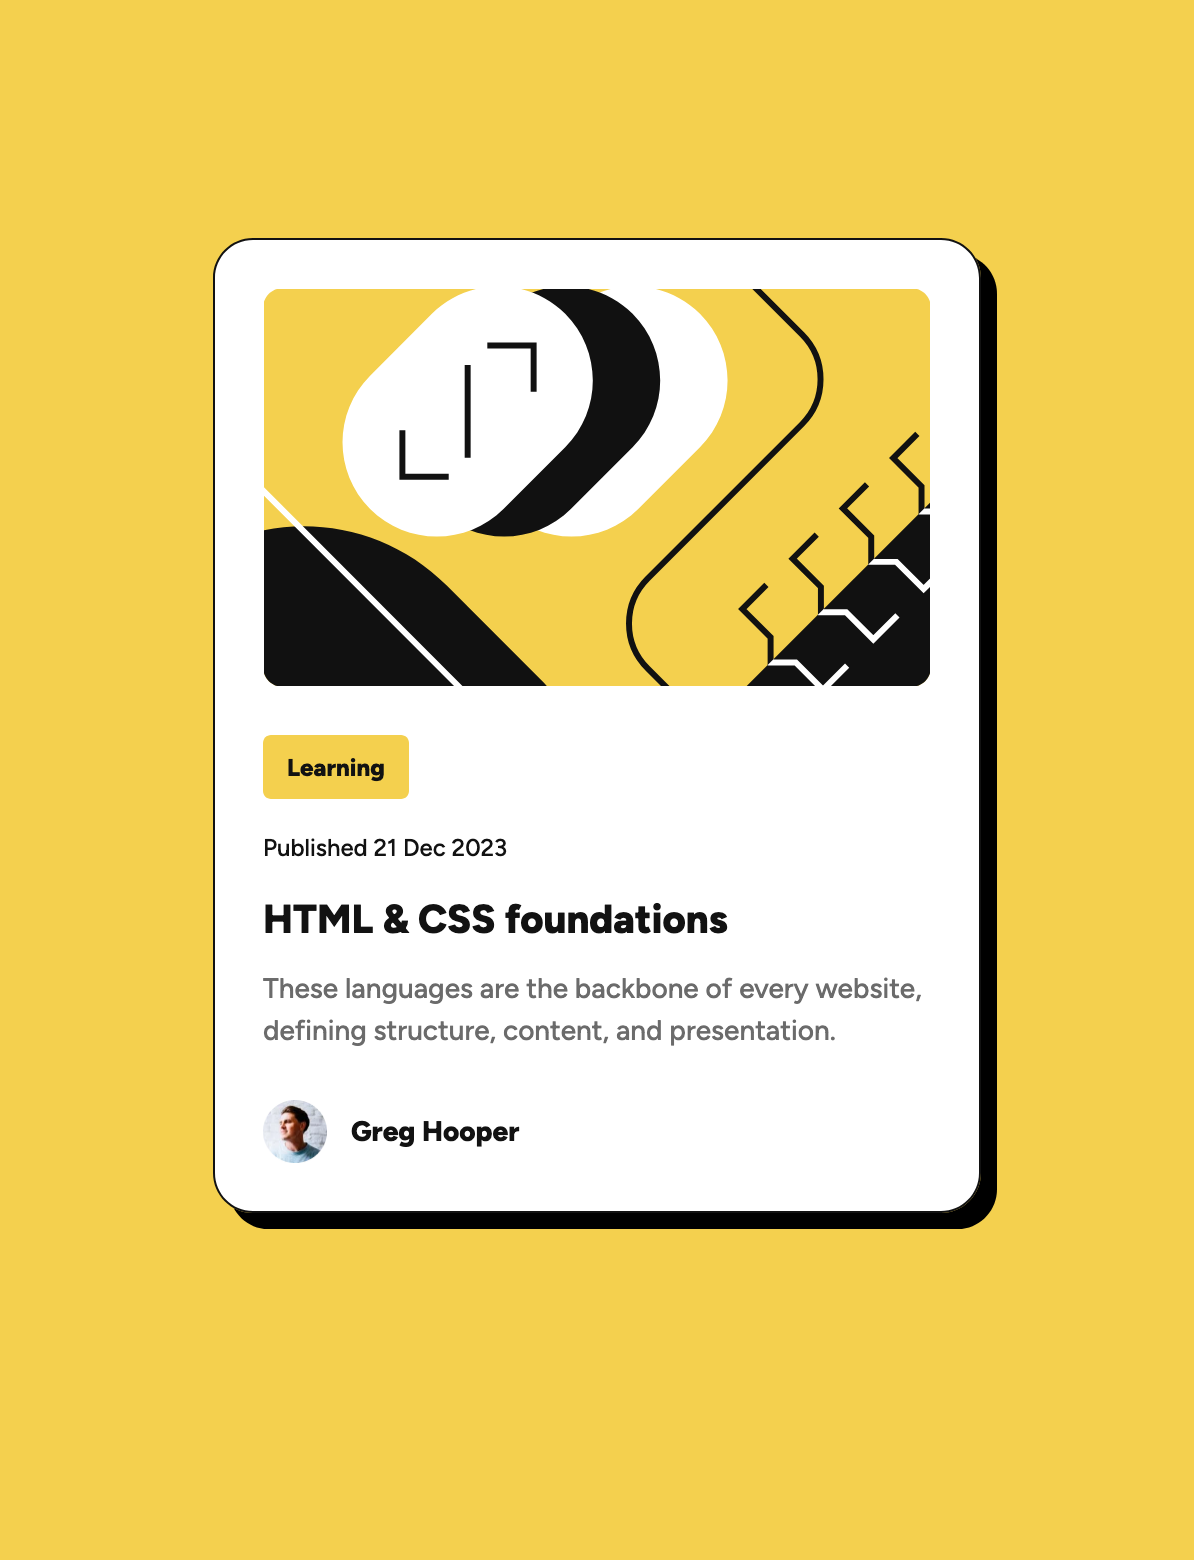
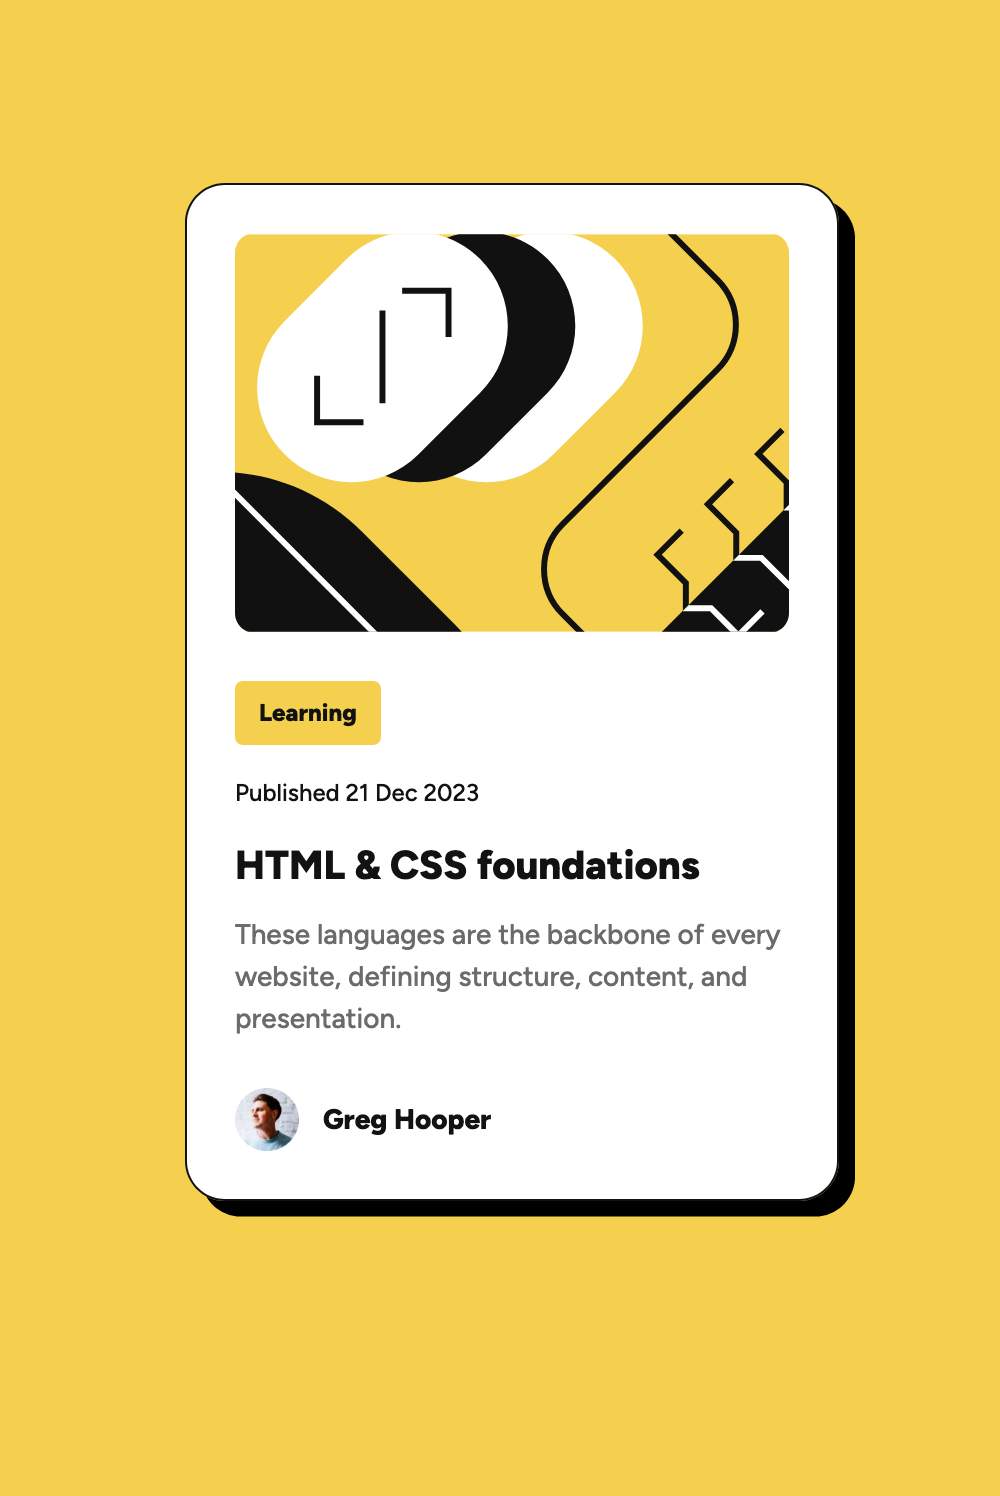
amelioration du responsive, passage image en object-fit cover

Changed region(s): [[0.155, 0.123, 0.868, 0.8302], [0.589, 0.3075, 0.62, 0.3382]]

diff --git a/style.css b/style.css
@@ -38,6 +38,8 @@ a {
     --spacing-150: 0.75rem;
     --spacing-100: 0.5rem;
     --spacing-50: 0.25rem;
+
+    --box-shadow: 8px 8px 0px 0px rgb(0,0,0);
 }
 
 html,
@@ -49,7 +51,7 @@ body {
 
 /* Rules */
 .main {
-    max-width: 1440px;
+    max-width: 90rem; /* 1440px */
     min-height: 100vh;
     margin-inline: auto;
     padding-inline: var(--spacing-300);
@@ -60,18 +62,28 @@ body {
 }
 
 .card {
-    border: 1px solid var(--gray-950);
+    position: relative;
+    border: 0.063rem solid var(--gray-950);
     background-color: var(--whit-color);
     padding: var(--spacing-300);
     display: grid;
     gap: var(--spacing-300);
     border-radius: 1.25rem;
-    max-width: 384px;
-    box-shadow: 8px 8px 0 0 rgb(0,0,0);
+    width: 90%;
+    box-shadow: var(--box-shadow);
+}
+
+.card__img {
+    position: relative;
+    border: 0px solid green;
+    border-radius: 0.625rem;
+    overflow: hidden;
 }
 
 .card-img {
     border-radius: 0.625rem;
+    
+    object-fit: cover;
 }
 .card__content {
     display: grid;
@@ -127,8 +139,35 @@ body {
 .attribution { font-size: 0.6875rem; text-align: center; }
 .attribution a { color: hsl(228, 45%, 44%); }
 
-@media (max-width: 300px) {
+@media (min-width: 23.44rem) {
     .card {
-        padding: var(--spacing-150);
+        width: 20.44rem; /* 327px */
     }
+    .card-img {
+        height: 12.5rem;
+    }
+}
+
+@media (min-width: 90rem) {
+    .card {
+        width: 24.19rem;
+    }
+
+    .card__content-category {
+        font: var(--font-preset-3-bold);
+    }
+
+    .card__content-publish_date {
+        font: var(--font-preset-3);
+    }
+
+    .card__content-title {
+        font: var(--font-preset-1);
+    }
+
+    .card__content-text {
+        font: var(--font-preset-2);
+    }
+
+
 }

diff --git a/index.html b/index.html
@@ -14,7 +14,6 @@
     <a href="#">
       <article class="card">
         <img class="card-img" src="assets/images/illustration-article.svg" alt="card illustration">
-        
         <div class="card__content">
           <p class="card__content-category">Learning</p>
           <p class="card__content-publish_date">Published 21 Dec 2023</p>
